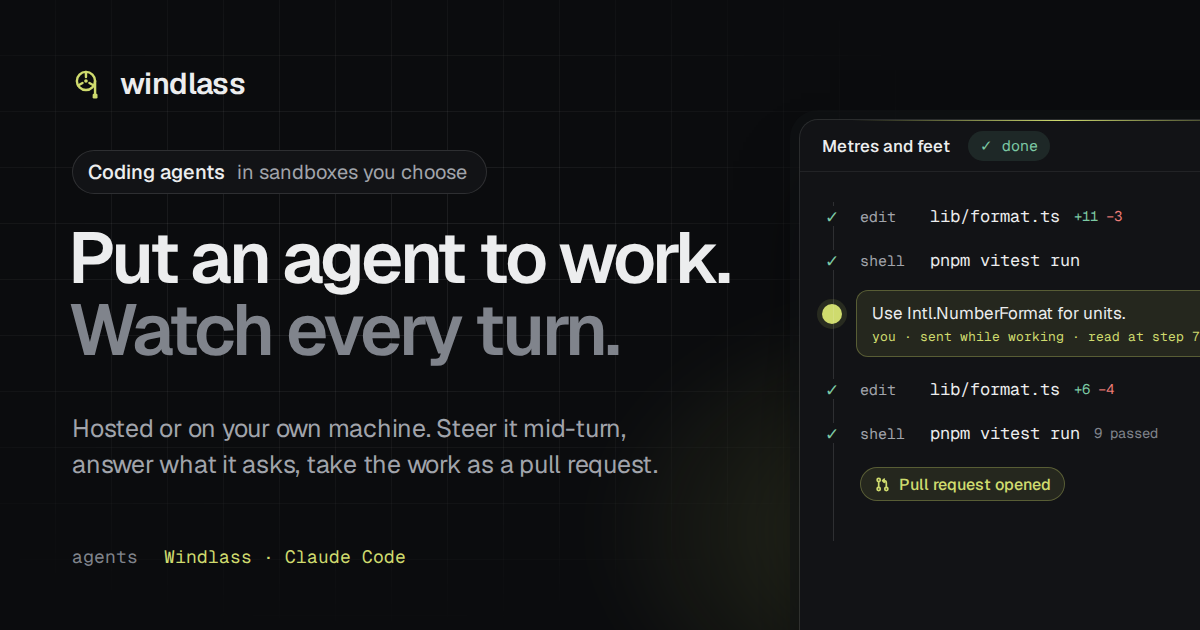
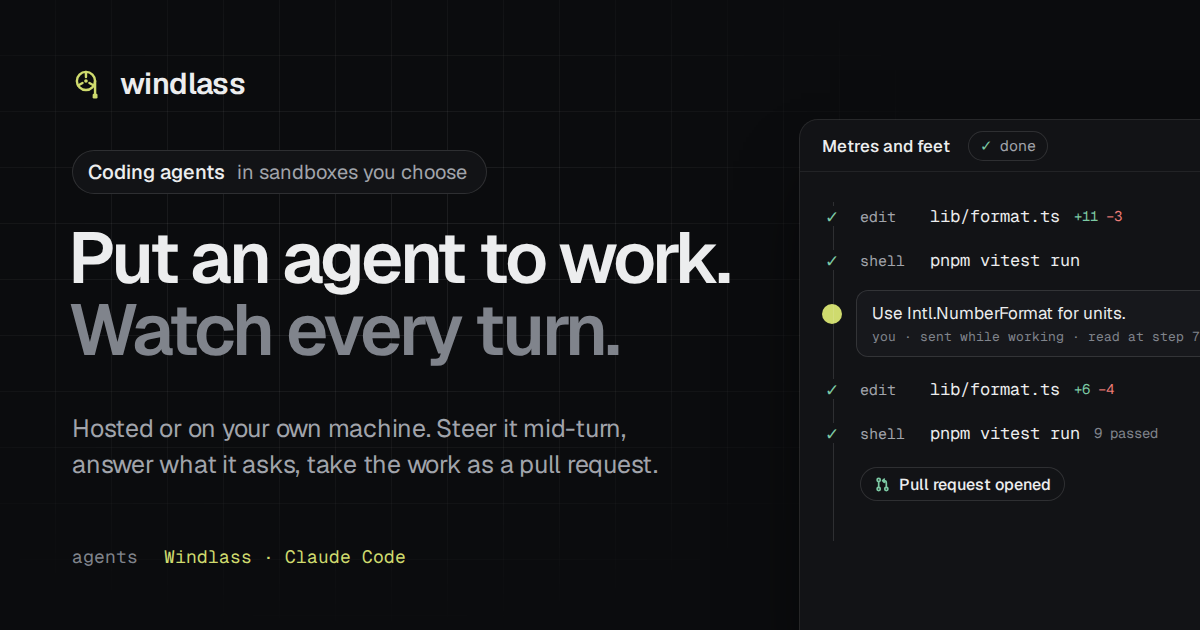
Draw the Open Graph image's pills and steer message on neutral surfaces

diff --git a/web/site-assets/og.html b/web/site-assets/og.html
@@ -52,7 +52,7 @@
 				bottom: -160px;
 				width: 760px;
 				height: 520px;
-				background: radial-gradient(ellipse at 50% 50%, rgb(207 219 110 / 0.18), transparent 65%);
+				background: none;
 				filter: blur(20px);
 			}
 			.brand {
@@ -140,11 +140,18 @@
 				background: #121316;
 				box-shadow:
 					0 0 0 1px rgb(255 255 255 / 0.12),
-					0 0 0 10px rgb(18 19 22 / 0.45),
 					0 40px 80px -30px #000;
 				overflow: hidden;
 			}
+			.done .ok {
+				color: #7cc9a4;
+				font-weight: 400;
+			}
+			.pr svg {
+				color: #7cc9a4;
+			}
 			.frame::before {
+				display: none;
 				content: "";
 				position: absolute;
 				top: 0;
@@ -171,8 +178,8 @@
 				margin-left: 8px;
 				padding: 0 12px;
 				border-radius: 15px;
-				background: rgb(124 201 164 / 0.12);
-				color: #7cc9a4;
+				box-shadow: inset 0 0 0 1px rgb(255 255 255 / 0.12);
+				color: #a1a4ab;
 				font-family: "Geist Mono", monospace;
 				font-size: 15px;
 				font-weight: 400;
@@ -238,20 +245,19 @@
 				margin-top: 14px;
 				border-radius: 50%;
 				background: #cfdb6e;
-				box-shadow: 0 0 0 5px rgb(207 219 110 / 0.12);
 			}
 			.steer .m {
 				padding: 12px 16px;
 				border-radius: 12px;
-				background: rgb(207 219 110 / 0.1);
-				box-shadow: inset 0 0 0 1px rgb(207 219 110 / 0.3);
+				background: #17181c;
+				box-shadow: inset 0 0 0 1px rgb(255 255 255 / 0.12);
 				font-size: 17px;
 				white-space: nowrap;
 			}
 			.steer .m small {
 				display: block;
 				margin-top: 4px;
-				color: #cfdb6e;
+				color: #80848c;
 				font-family: "Geist Mono", monospace;
 				font-size: 13px;
 			}
@@ -263,9 +269,8 @@
 				margin-top: 12px;
 				padding: 0 14px;
 				border-radius: 17px;
-				background: rgb(207 219 110 / 0.1);
-				box-shadow: inset 0 0 0 1px rgb(207 219 110 / 0.3);
-				color: #cfdb6e;
+				box-shadow: inset 0 0 0 1px rgb(255 255 255 / 0.12);
+				color: #ecedee;
 				font-size: 16px;
 				font-weight: 520;
 			}
@@ -289,7 +294,7 @@
 		<div class="frame">
 			<div class="bar">
 				Metres and feet
-				<span class="done">✓ done</span>
+				<span class="done"><b class="ok">✓</b> done</span>
 			</div>
 			<div class="rows">
 				<p class="row"><i>✓</i><span class="v">edit</span>lib/format.ts <span class="f"><span class="add">+11</span> <span class="del">−3</span></span></p>
